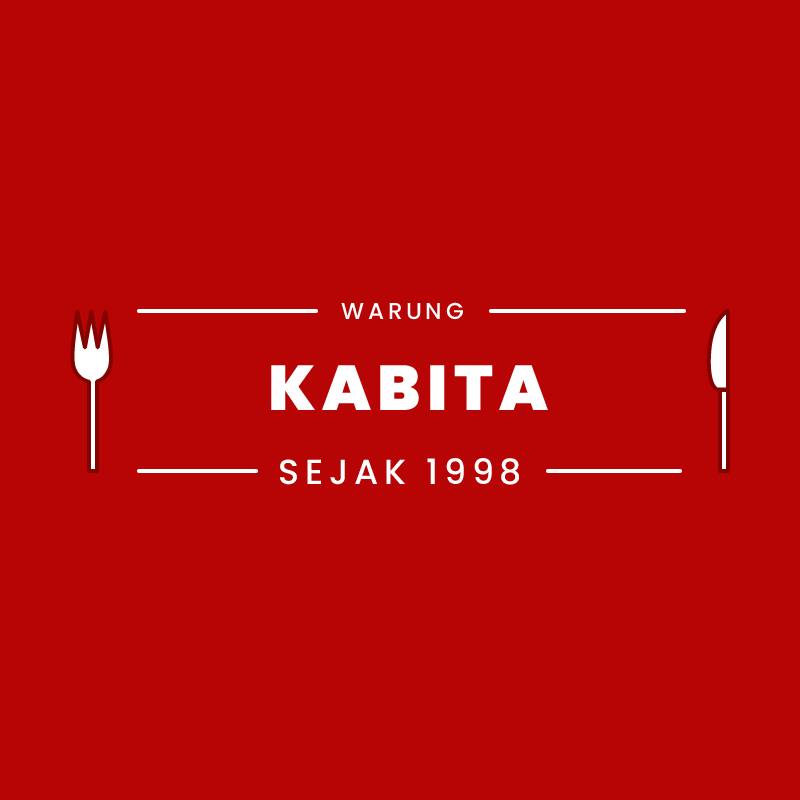
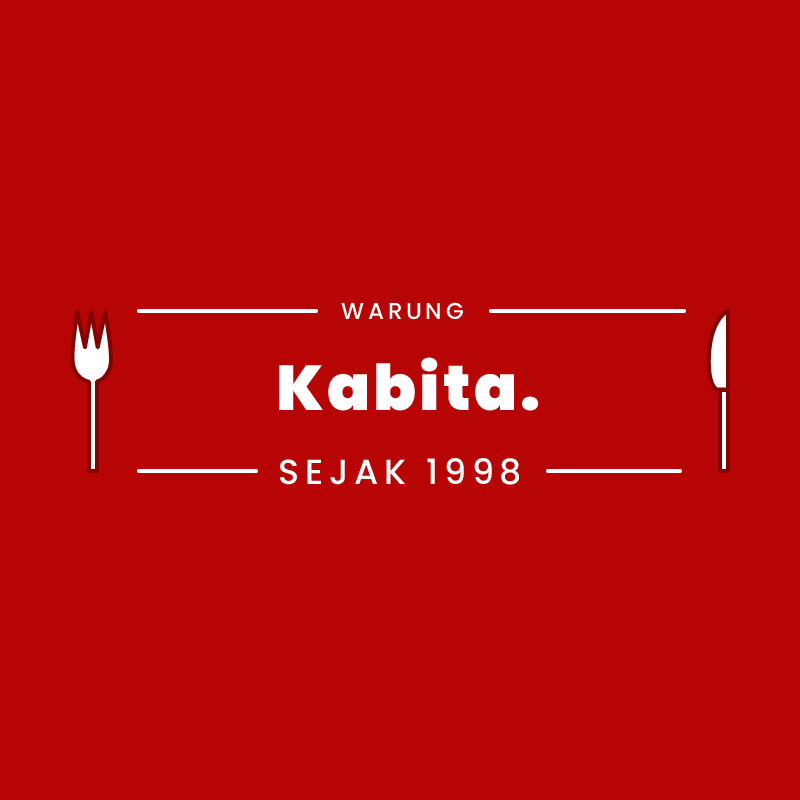
mengubah KABITA menjadi Kabita.

Changed region(s): [[0.3125, 0.4375, 0.6875, 0.5312]]

diff --git a/index.html b/index.html
@@ -275,7 +275,7 @@
                 style="background-image: url('image/indonesian-food.jpg');">
                 <div class="absolute inset-0 bg-black opacity-50"></div>
                 <div class="absolute inset-0 flex flex-col justify-center items-center text-center">
-                    <h1 class="text-white px-4 text-2xl lg:text-5xl font-poppins font-bold mb-2">WARUNG KABITA
+                    <h1 class="text-white px-4 text-2xl lg:text-5xl font-poppins font-bold mb-2">Warung Kabita.
                     </h1>
                     <h1 class="text-white px-4 text-lg lg:text-2xl font-poppins mb-6">Bukan anak IPB kalau belum
                         makan di Kabita
@@ -293,8 +293,8 @@
             <div class="container mx-auto flex flex-col lg:flex-row gap-5 items-start justify-center">
                 <img class="w-full lg:w-72" src="image/tentang.png" alt="">
                 <div>
-                    <h2 class="text-xl lg:text-5xl font-poppins font-bold mb-2 lg:mb-6">WARUNG <span
-                            class="text-red-600">KABITA</span>
+                    <h2 class="text-xl lg:text-5xl font-poppins font-bold mb-2 lg:mb-6">Warung <span
+                            class="text-red-600">Kabita.</span>
                     </h2>
                     <p class="text-sm lg:text-lg text-justify font-poppins text-gray-700">
                         Kedai Warung Kabita merupakan kedai warung makan sunda yang memiliki harga yang sangat murah
